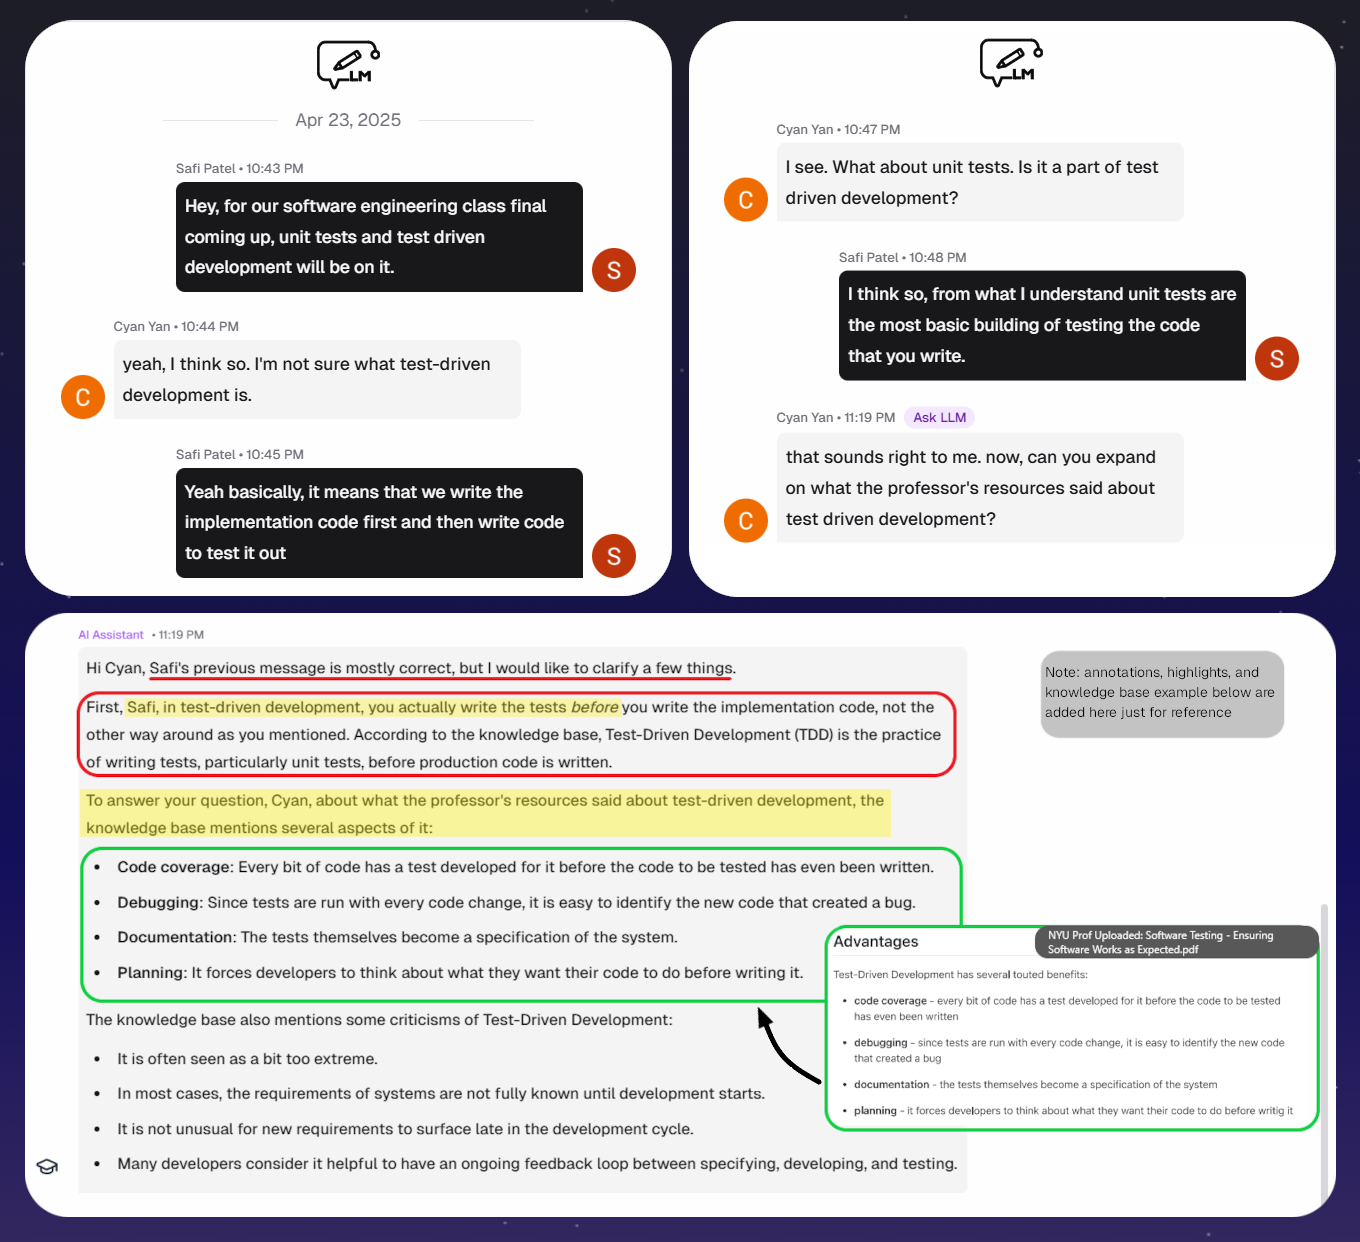
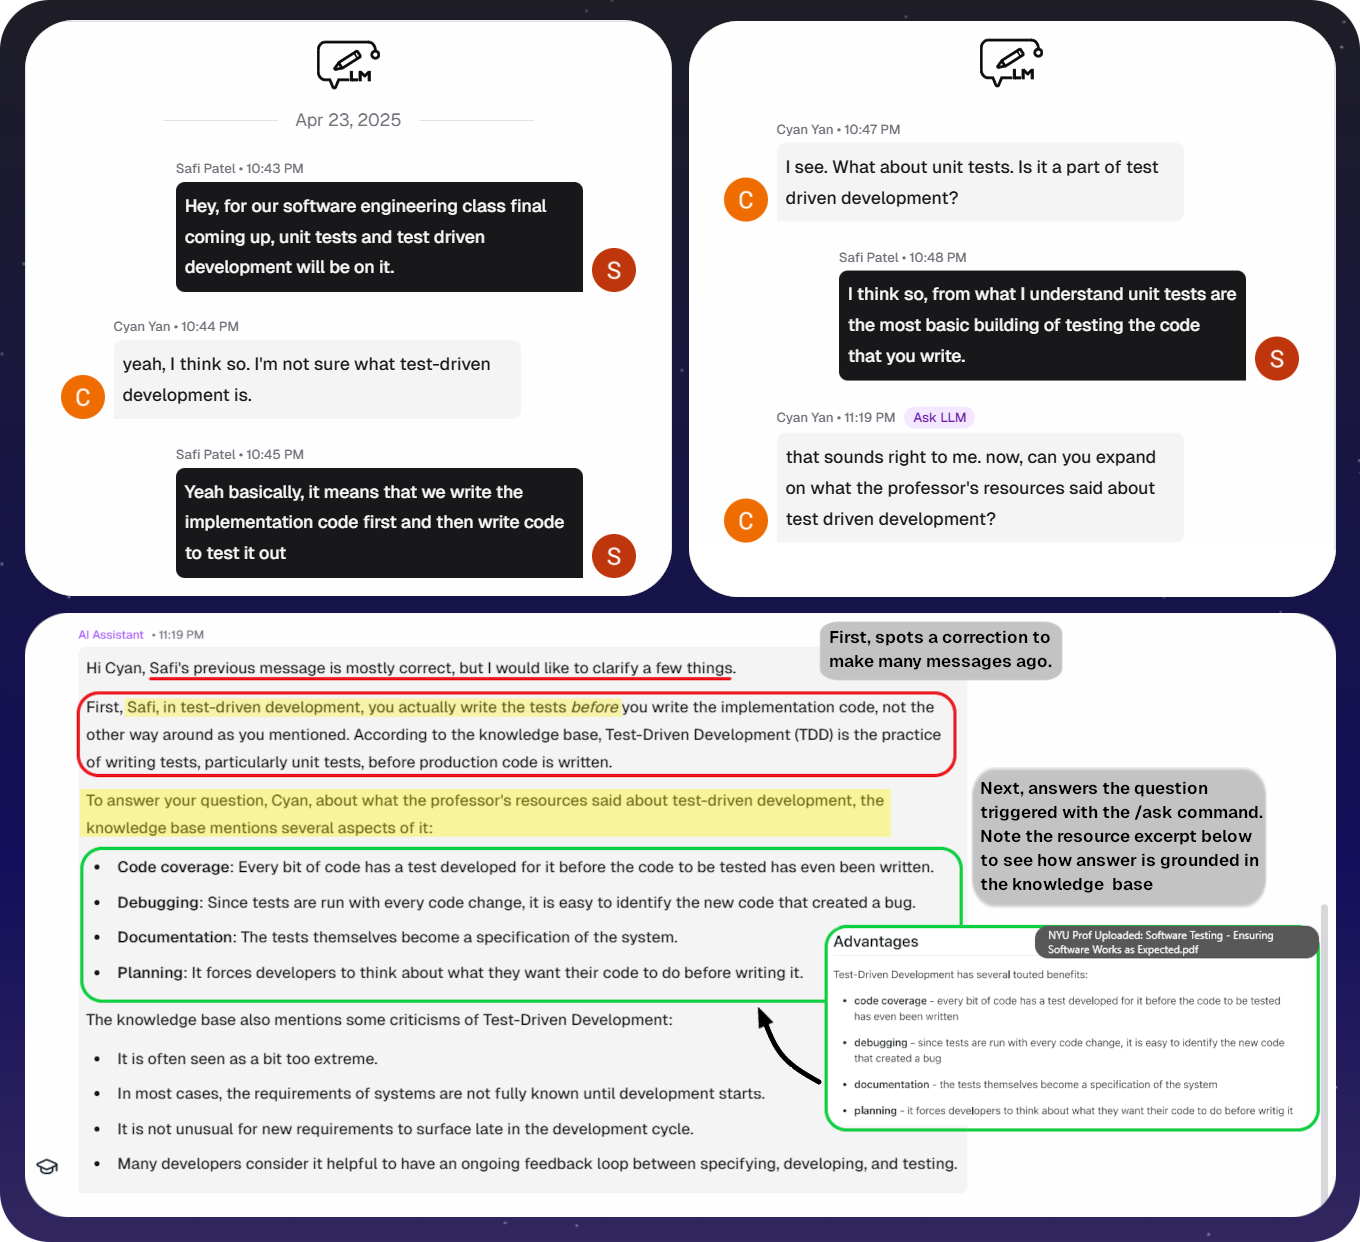
more changes

diff --git a/README.md b/README.md
@@ -1,5 +1,6 @@
 
 # ClassroomLM
+
 ![ClassroomLM Banner](.github/assets/main-banner.png)
 
 **ClassroomLM provides each of the many classrooms within an organization a specialized LLM assistant that is specific and accurate to the subject matter and resources of that particular classroom.**
@@ -24,14 +25,14 @@ Teachers can create classrooms, upload documents (PDFs, slides, handwritten note
 
 ### **Classroom-Specific AI Assistants**
 
-Each classroom has access to an LLM assistant that is RAG-enabled, allowing it to be more specific and accurate, while also being more grounded and smarter at retrieving information from the class' resources, unlocking greater potential for engaging learning, peer interaction, and more.
+Each classroom has access to an LLM assistant that is RAG-enabled, allowing it to be more specific and accurate, while also being more grounded and capable of retrieving information from the class' resources, unlocking greater potential for engaging learning, peer interaction, and more.
 
 ![Personal Assistant Example](.github/assets/personal-example.png)
 
-#### **Advantages over current user-facing AI assistant systems with use case examples**
+#### **Advantages over current user-facing AI assistant systems**
 
 **More accurate, specific, and grounded**: ClassroomLM's LLM assistant
-provides responses with full awareness and knowledge of the classroom's specific or niche context through the use of the instructor's documents, rather than operate in the default context of LLMs: "the entire world's knowledge."
+provides responses with full awareness and knowledge of the classroom's specific or niche context, rather than operating in the default context of LLMs: the entire world/internet's knowledge.
 
   > **Use case example**: An NYU Professor has a variation of assembly created specifically for the classroom, called E20. Putting the E20 manual into the shared classroom dataset gave all students within this classroom access to **an assistant that is now specialized, knowledgeable, and with full context of this niche, not-seen-before language personally created by a professor.** \
   > Compared to ClassroomLM, other user-facing assistant systems gave vague, nonspecific, and non-accurate answers relevant to other assembly variants.
@@ -46,44 +47,46 @@ Rather than an entire classroom's worth of students having to upload their docum
 
 ---
 
-**Powerful and highly flexible abilities**: Your imagination is the only limit on what is possible with your RAG-enabled LLM assistant.\
-**ClassroomLM brings out the full potential of LLM assistants for educators and students, so the existing, highly flexible powers and capabilities of LLMs that people expect are not only retained, but enhanced.**
+**Powerful and highly flexible abilities**:
+**ClassroomLM brings out the full potential of LLM assistants** for educators and students, meaning the **existing,** highly flexible **powers** and capabilities of LLMs that people expect are not only **retained, but enhanced.**
 
- The assistant can be used to generate exam questions, review material, interrogate the classroom documents, have a discussion about the content, judge and correct your own understanding, and many other tested abilities, and with even more possible.\
- And again, **in comparison to existing user-facing systems, all of these will be more accurate and specific because of the grounding that comes from the classroom's resource dataset.**
+- The assistant can be used to generate exam questions, review material, interrogate the classroom documents, have a discussion about the content, judge and correct your own understanding, and many other tested abilities, and with even more possible.
+- And again, **in comparison to existing user-facing systems, all of these will be more accurate and specific because of the grounding that comes from the classroom's resource dataset.**
 
 ---
 **Tested in diverse contexts**:
-In terms of contexts, ClassroomLM was tested to be useful for subjects ranging from physics, different math topics, computer science, different topics within the humanities, etc. As an example, for something like philosophy or other classes with many readings, ClassroomLM shines because it's able to synthesize across the many readings, and without each student having to reupload all documents.
+In terms of contexts, ClassroomLM was tested to be useful for subjects ranging from physics, different math topics, computer science, different topics within the humanities, etc. As an example, for something like philosophy, a class with many texts, ClassroomLM shines because it's able to synthesize across the many readings, and without each student having to reupload all documents.
 
-### **Collaborative AI Chats**
+### **Collaborative Chats with ClassroomLM**
 
-Group chat support with other students the AI can participate with full chat context.
+***Group chats with other class members and an AI assistant that's a full conversation participant, not just a bot responding to one-off Q&As***
 
 - Students can create multiple chatrooms per classroom and choose who to invite within each chatroom.
 - Within the chatroom, students can pull the LLM into the conversation in the manner of a group chat with the **`/ask [message]`** command.
 - The assistant in this case retains all the benefits described above for the personal chat, as it is also RAG enabled.
-- To be clear, this isn’t the common implementation of a "group chat with an assistant" very often found in company Slacks, etc. where the LLM is just responding to the message that triggered it.\
-That case is only more useful than just asking the LLM personally since now everyone can benefit from seeing the answer.\
-Instead here, when triggered with the `/ask` command the LLM will have knowledge of all the previous conversation and respond accordingly, as if it’s just part of the conversation.
+
+#### Unique to ClassroomLM: Collaborative chat with full conversation context *and* grounded with RAG on a classroom's resources
+
+- With ClassroomLM, when triggered with the `/ask` command the LLM will have knowledge of the previous conversation and respond accordingly.
+  - Will make corrections to messages long ago and otherwise **act like a full participant in the conversation, rather than just a bot that you Q&A one-off messages.**
+- This is **unlike the common implementations of a "group chat with an AI assistant" idea very often found in company Slacks, etc.** where the LLM is only aware of the message that triggered it and responds just to that.
+The only benefit of those implementations is that everyone in the chat witnesses the Q&A, compared to just personally asking it.
+
+#### Collaborative chat example
 
   ![Collaborative Chat Example](.github/assets/collab-full.png)
   
-  First, spots a correction to make many messages ago.
-
-  Proceeds to answer the question triggered with the /ask
-  Note: answer is grounded in information from the knowledge base as seen in  
-
   <!-- <details>
   <summary>
   test
   </summary>
    -->
+#### Another collaborative chat example
+<!-- markdownlint-disable MD033 -->
+- We see the ClassroomLM assistant as an actual conversation participant, <ins>**understanding that it needs to keep giving new questions within a group review session one-by-one and waiting till the end to evaluate**</ins>.
+- We also see that the **questions are rooted in the knowledge base**, and that the **evaluation correctly and faithfully sticks to the resources** to provide the additional relevant context and give feedback.
   ![Collaborative chat with interactivity](.github/assets/example2-full.png)
 
-  ??? add commentts to this, it comes from the main doc
-
-  <!-- </details> -->
 
 ## Technical Overview
 
@@ -94,7 +97,7 @@ This is especially true in terms of handling bugs and having a comprehensive and
 
 ### RAGFlow vs. ClassroomLM's responsibilities
 
-As seen above in the diagram, the **RAGFlow** instance (note that this is self-hosted) **is responsible for storing the documents within knowledge bases and handling  RAG functionality during LLM chats.\ ClassroomLM is responsible for the layer above this in terms of managing classrooms, collaborative chats, etc. For example, the ClassroomLM application is what links the siloed datasets within RAGFlow to the corresponding classroom for all LLM assistant functionality.**
+As seen above in the diagram, the **RAGFlow** instance (note that it's self-hosted) is responsible for storing the documents within knowledge bases and handling  RAG functionality during LLM chats. **ClassroomLM is responsible for the layer above this in terms of managing classrooms, collaborative chats, etc**. For example, the ClassroomLM application is what links the siloed datasets within RAGFlow to the corresponding classroom for all LLM assistant functionality.
 
 ### Repository contents
 
@@ -246,6 +249,6 @@ Then deploy:
 ClassroomLM was initially created by the first cohort of [Tech@NYU's](https://techatnyu.org) Dev Team Program in the Spring 2025 semester.
 
 **Tech Lead**: Safi Patel\
-**Program manager**: Sanjay Chunduru\
+**Program Manager**: Sanjay Chunduru\
 **Developers**: Yixiang Chen, Joseph Cheng, Pranit Singh Gandhi, Xiaomin Liu, Shubham Parab, Emily Silkina, Kavya Srikumar, Austin Tan, Benjamin Tian, Chenxin Yan\
 **Product design**: Jennifer Huang, Haley Ngai
